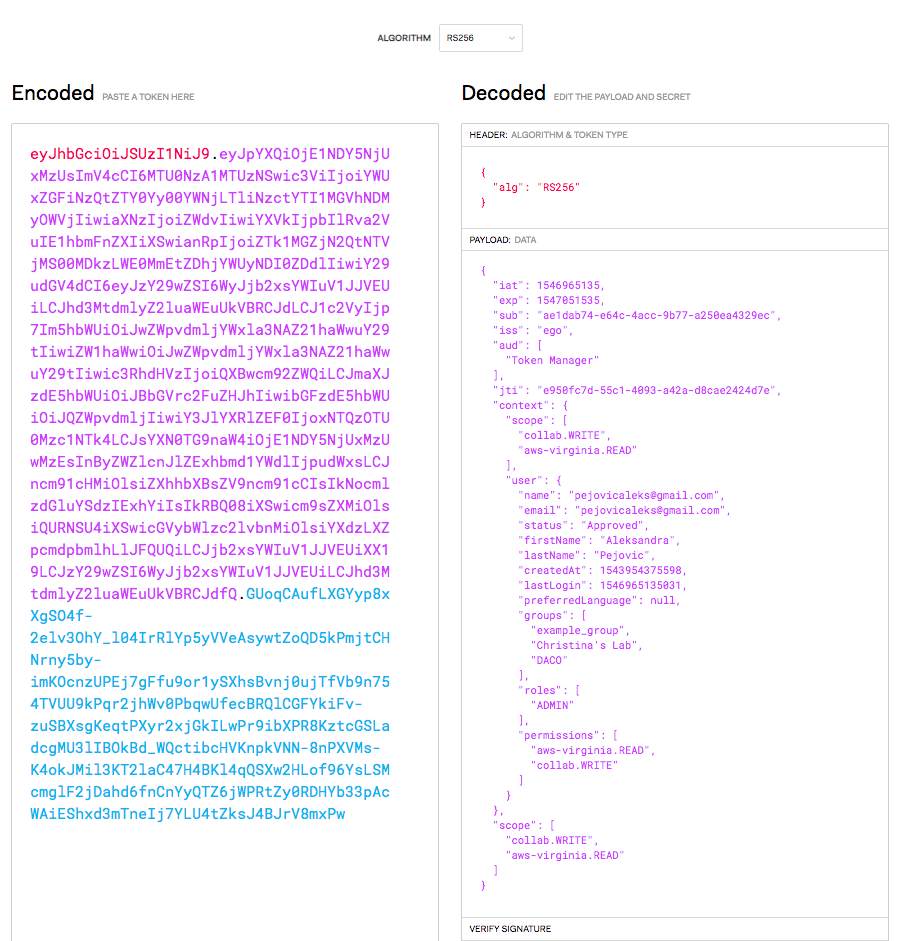
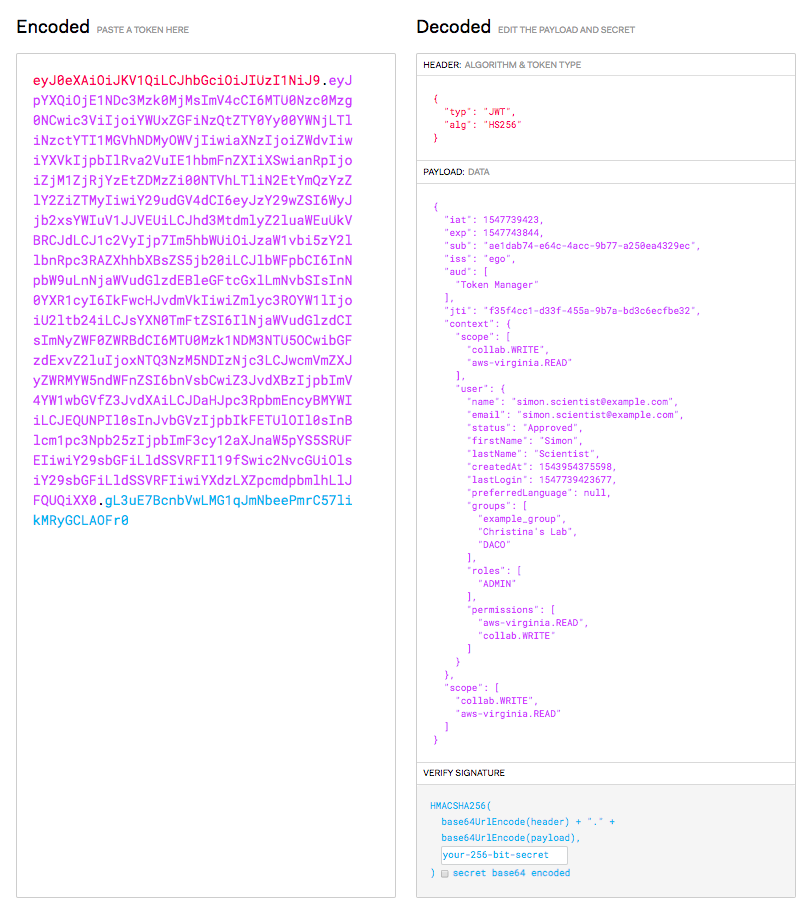
Removing my email from image + fixing typos

Changed region(s): [[0.0, 0.0, 0.9852, 1.0], [0.9544, 0.1542, 0.9852, 0.2775], [0.9544, 0.8326, 0.9852, 0.8634]]

diff --git a/docs/src/tokens.rst b/docs/src/tokens.rst
@@ -3,21 +3,23 @@ Tokens
 
 User Authentication Tokens
 ----------------------------------------------------
-Authentication concerns who the user is. User Authentication tokens are used to verify a user’s identity.
+Authentication concerns *who the user is*.
+
+User Authentication tokens are used to verify a user’s identity.
 
 Ego’s User Authentication tokens are signed JSON Web Tokens (see http://jwt.io) that Ego issues when a user successfully logs into Ego using their Google or Facebook credentials.
 
-Ego will then issue an authentication token, which confirms the user’s identity, and contains information about the user’s name, their role (user or administrator), and any applications, permissions, and groups associated with their Ego account.
+Ego's authentication tokens confirm the user’s identity, and contain information about a user’s name, their role (user/administrator), and any applications, permissions, and groups associated with their Ego account etc.
 
-An authentication token contains all of the information that ego has about a given user, including which groups they are a part of, which applications they are authorized to use , which permissions they have to use those applications.
-
-This data current as of the time the token is issued, and the token is digitally signed by Ego with a publicly available signing key that applications have to use to verify that an authentication token is valid. Most of Ego’s REST endpoints require an Ego authentication token to validate the user’s identity before operating on their data.
+This data is current as of the time the token is issued, and the token is digitally signed by Ego with a publicly available signing key that applications have to use to verify that an authentication token is valid. Most of Ego’s REST endpoints require an Ego authentication token to be provided in the authorization header, in order to validate the user’s identity before operating on their data.
 
 .. image :: jwt.png
 
 User Authorization Tokens
 ----------------------------------------------------
-Authorization concerns what a user is allowed to do.
+Authorization concerns *what a user is allowed to do*.
+
+User Authorization tokens are used to verify a user's permissions to execute on a desired scope.
 
 Ego’s User Authorization tokens are random numbers that Ego issues to users so they can interact with Ego-aware applications with a chosen level of authority.
 
@@ -27,7 +29,7 @@ Unlike passwords, Authorization tokens automatically expire, and they can be rev
 
 The user can then use their token with Ego-authorized applications as proof of who they are and what they are allowed to do. Typically, the user will configure a client program (such as SING, the client program used with SONG, the ICGC Metadata management service) with their secret token, and the program will then operate with the associated level of authority.
 
-In more detail, when an Ego-aware application wants to know if it authorized to do something on behalf of a given user, it just sends their user authorization token to Ego, and gets back the associated information about who the user is (their user id), and what they are allowed to do (the permissions associated with their token). If the permissions that the user have include the permission the application wants, the application know it is authorized to perform the requested service on behalf of the user.
+In more detail, when an Ego-aware application wants to know if it is authorized to do something on behalf of a given user, it just sends their user authorization token to Ego, and gets back the associated information about who the user is (their user id), and what they are allowed to do (the permissions associated with their token). If the permissions that the user have include the permission the application wants, the application know it is authorized to perform the requested service on behalf of the user.
 
 
 Application Authentication Tokens
@@ -35,4 +37,4 @@ Application Authentication Tokens
 
 For security reasons, applications need to be able to prove to Ego that they are the legitimate applications that Ego has been configured to work with.
 
-For this reason, every Ego-aware application must be configured in Ego with it’s own unique client_id and password, and the application must send an authentication token with this information to Ego whenever it makes a request to get the identity and credentials associated with a user’s authorization token.
+For this reason, every Ego-aware application must be configured in Ego with it’s own unique CLIENT ID and CLIENT SECRET, and the application must send a token with this information to Ego whenever it makes a request to get the identity and credentials associated with a user’s authorization token.

diff --git a/docs/src/gettingstarted.rst b/docs/src/gettingstarted.rst
@@ -21,22 +21,23 @@ Using  `Docker <https://www.docker.com/>`_:
 
 Ego should now be deployed locally with the Swagger UI at http://localhost:8080/swagger-ui.html
 
-Alternatively, see the development :ref:`installation instruction `. instructions.
+Alternatively, see the `Installation instructions <installation.html>`_.
+
 
 How Ego Works
 -------------------------------------------
-**1.       An Ego administrator configures Ego.**
+**1.  An Ego administrator configures Ego.**
     - Registers a unique client-id and application password for each application that will use Ego for Authorization.
     - Creates a policy for every authorization scope that an application will use.
     - Registers users and groups, and sets them up with appropriate permissions for policies and applications.
 
 
-**2.     Ego grants secret authorization tokens to individual users to represent their permissions**
+**2.  Ego grants secret authorization tokens to individual users to represent their permissions.**
     - Authorization tokens expire, and can be revoked if compromised.
     - Individuals can issue tokens for part or all of their authority, and can limit the authority to specific applications.
     - Users (and programs operating on their behalf) can then use these tokens to access services.
 
-**3.     Individual services make a REST call to EGO to determine the user and authority represented by a token.**
+**3.  Individual services make a REST call to EGO to determine the user and authority represented by a token.**
     - Makes a call to Ego's check_token endpoint and validates the user's authorization to access the requested services.
 
 

diff --git a/docs/src/admins.rst b/docs/src/admins.rst
@@ -17,13 +17,13 @@ To administer Ego, the admin must:
 
    a. Admin creates a new application in Ego with the client_id and password.
    b. Admin creates new policies with new policy names
-   c. Admin Assign permissions to users/groups to permit/deny them access to the new application and policies
+   c. Admin assigns permissions to users/groups to permit/deny them access to the new application and policies
 
-**4. Admin creates or deletes groups, assigns user/group permissions, expire tokens, etc. as necessary.**
+**4. Admin creates or deletes groups, assigns user/group permissions, revoke tokens, etc. as necessary.**
 
    For example, an administrator might want to:
 
-      - Create a new group called “QA”, whose members are all the people in the “QA department”
+      - Create a new group called **“QA”**, whose members are all the people in the “QA department”
       - Create a group called “Access Denied” with access level “DENY” set for every policy in Ego
       - Grant another user administrative rights (role ADMIN)
       - Add a former employee to the group “AccessDenied”, and revoke all of their active tokens.
